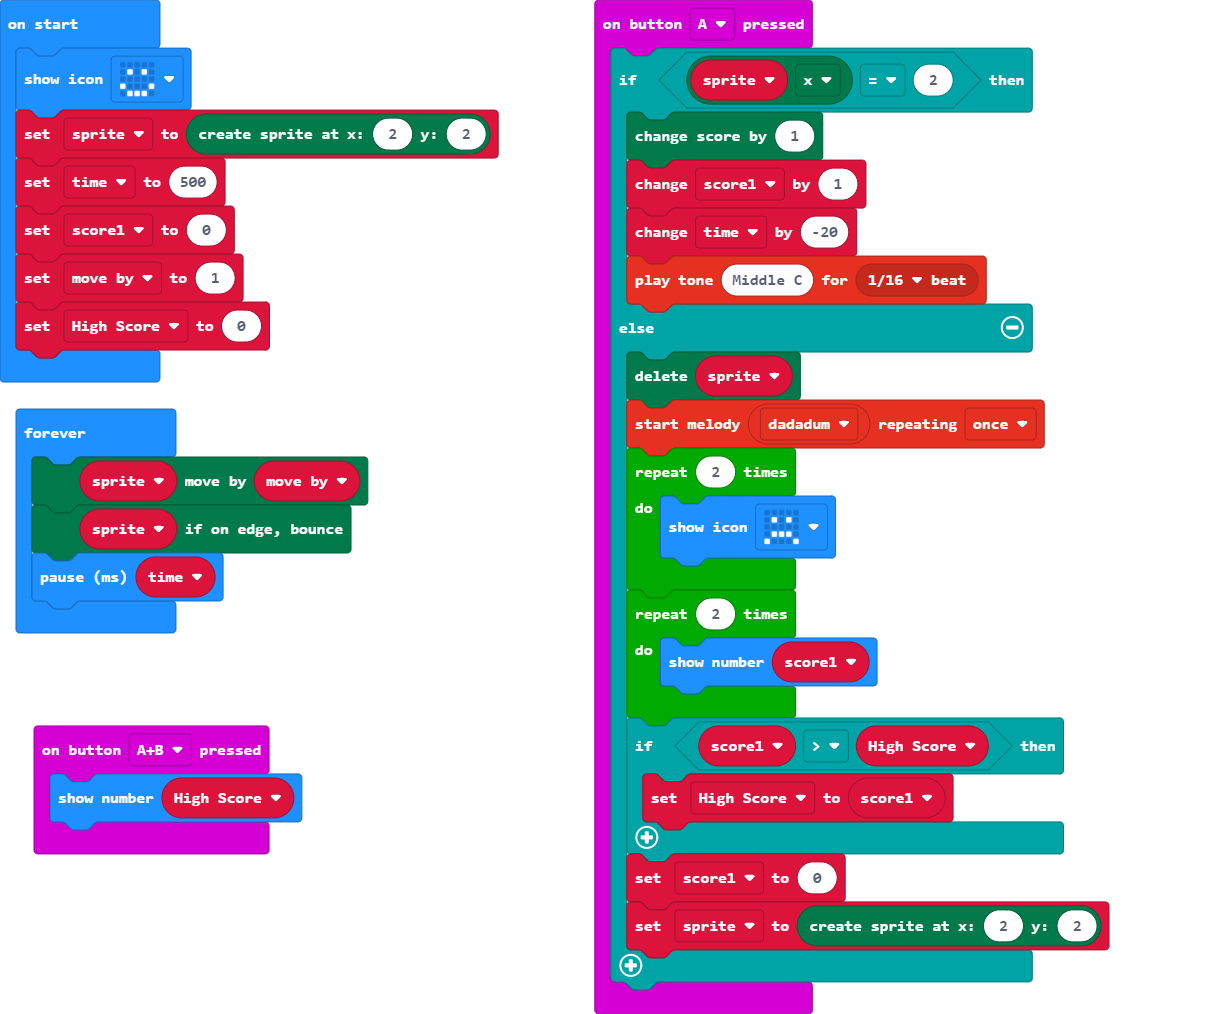
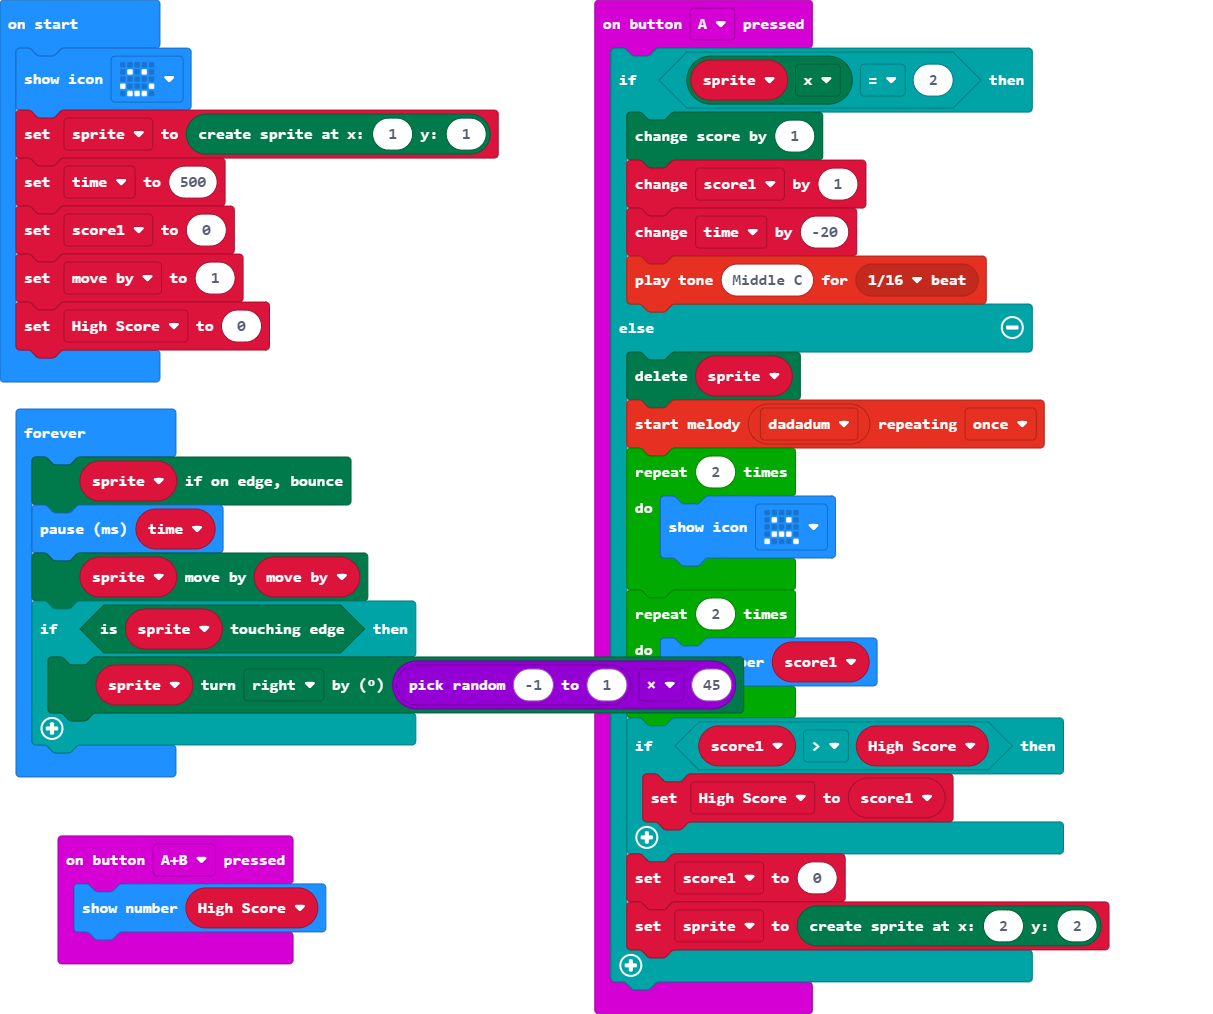
randomly changes direction on edge to make it harder

Changed region(s): [[0.0, 0.428, 0.6406, 0.9783]]

diff --git a/main.ts b/main.ts
@@ -27,13 +27,16 @@ let High_Score = 0
 let score1 = 0
 let sprite: game.LedSprite = null
 basic.showIcon(IconNames.Happy)
-sprite = game.createSprite(2, 2)
+sprite = game.createSprite(1, 1)
 let time = 500
 score1 = 0
 let move_by = 1
 High_Score = 0
 basic.forever(function () {
-    sprite.move(move_by)
     sprite.ifOnEdgeBounce()
     basic.pause(time)
+    sprite.move(move_by)
+    if (sprite.isTouchingEdge()) {
+        sprite.turn(Direction.Right, randint(-1, 1) * 45)
+    }
 })

diff --git a/main.py b/main.py
@@ -1,0 +1,40 @@
+def on_button_pressed_a():
+    global score1, time, High_Score, sprite
+    if sprite.get(LedSpriteProperty.X) == 2:
+        game.add_score(1)
+        score1 += 1
+        time += -20
+        music.play_tone(262, music.beat(BeatFraction.SIXTEENTH))
+    else:
+        sprite.delete()
+        music.start_melody(music.built_in_melody(Melodies.DADADADUM),
+            MelodyOptions.ONCE)
+        for index in range(2):
+            basic.show_icon(IconNames.SAD)
+        for index2 in range(2):
+            basic.show_number(score1)
+        if score1 > High_Score:
+            High_Score = score1
+        score1 = 0
+        sprite = game.create_sprite(2, 2)
+input.on_button_pressed(Button.A, on_button_pressed_a)
+
+def on_button_pressed_ab():
+    basic.show_number(High_Score)
+input.on_button_pressed(Button.AB, on_button_pressed_ab)
+
+High_Score = 0
+score1 = 0
+sprite: game.LedSprite = None
+basic.show_icon(IconNames.HAPPY)
+sprite = game.create_sprite(2, 2)
+time = 500
+score1 = 0
+move_by = 1
+High_Score = 0
+
+def on_forever():
+    sprite.if_on_edge_bounce()
+    basic.pause(time)
+    sprite.move(move_by)
+basic.forever(on_forever)
